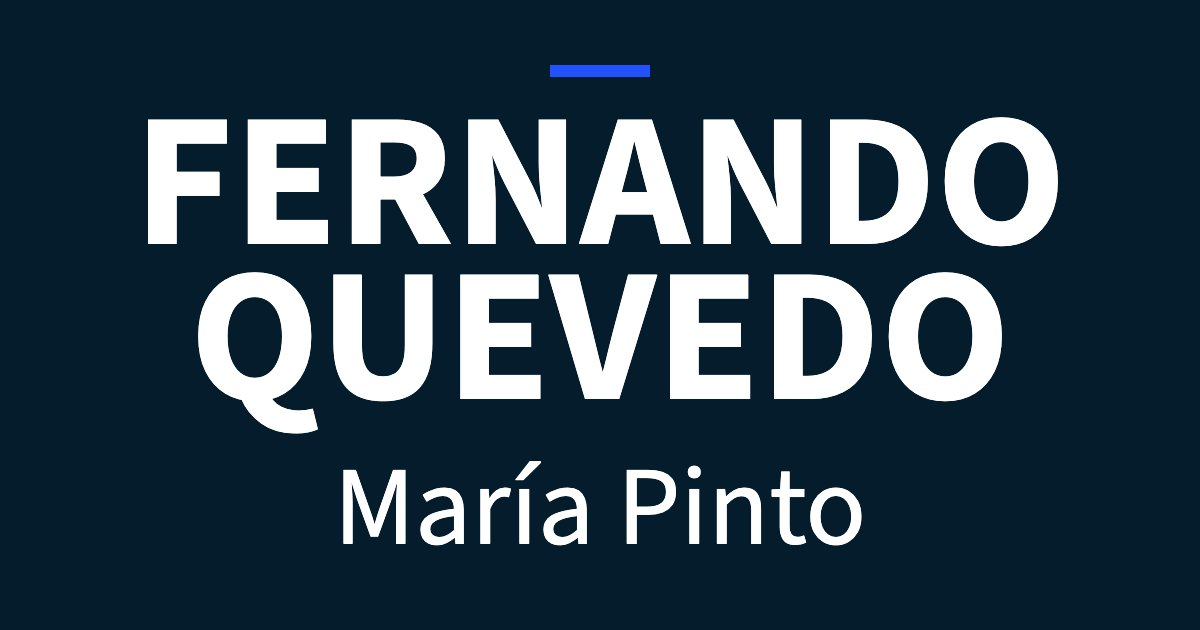
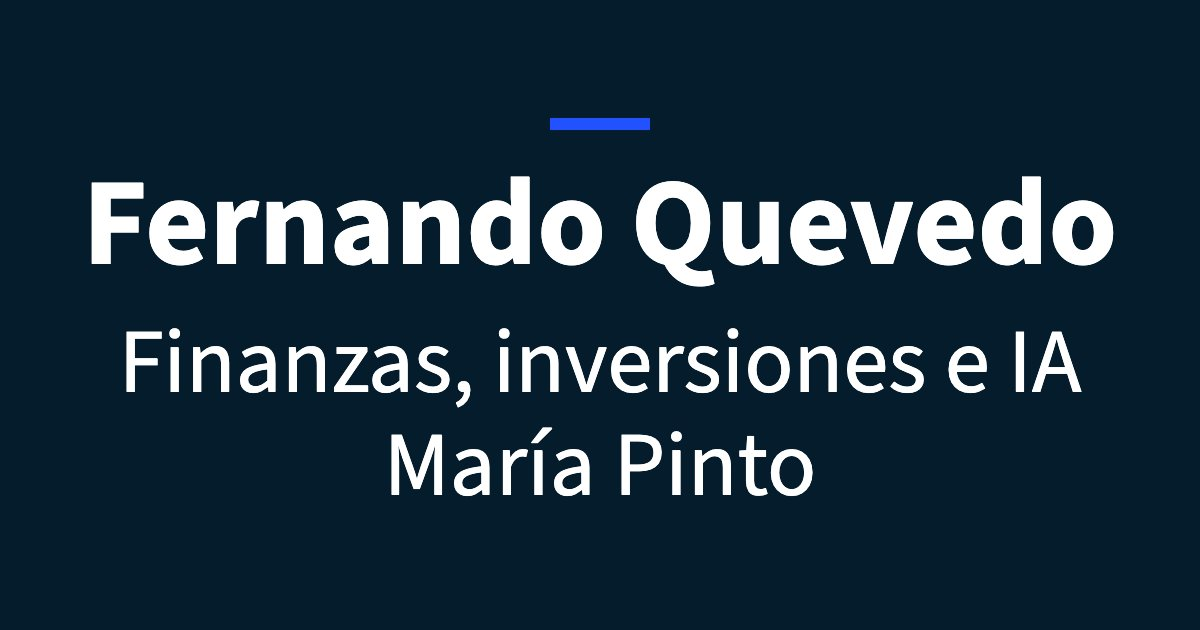
Tarjeta v4: og-image de 3 niveles y descripción con "packing"
og-mariapinto.jpg pasa a tres niveles —nombre, qué hago, dónde— en caja
mixta. Medidas sobre el JPEG entregado: L1 "Fernando Quevedo" cap 81 px
en una línea, L2 y L3 cap 60 px, márgenes laterales 92/87, 87/119 y
392/388 px sobre un mínimo de 80. 52,4 KB, JPEG 85, baseline.

L1 va a 81 px y no a los 92-100 que pedía la spec porque a 92 el nombre
mediría 1178 px de ancho contra 1040 disponibles. Se reportaron las
variantes medidas y Fernando eligió conservar bold, línea única y
márgenes, aceptando un ratio de jerarquía de 1,350: el peso construye
la jerarquía tanto como el tamaño, y la variante que subía el ratio
dejaba nombre y lema en el mismo peso, con el nombre menos dominante.

meta description y og:description (idénticas, 94 caracteres) cambian
"IA" por "packing": la IA ya viaja en la imagen y en el título, y
packing le habla al agro. La CTA arranca en el carácter 64.

CLAUDE.md: se escribe la SPEC CANÓNICA TARJETA v4 y se eliminan las
specs anteriores de la og-image. Incorpora cómo medir la altura de
mayúscula y el procedimiento de calentar el CDN antes de probar la
vista previa en WhatsApp.

Sin tocar og:title, og:url, la ruta de og:image ni el resto de la página.

Changed region(s): [[0.0617, 0.181, 0.925, 0.6937], [0.2775, 0.6635, 0.74, 0.8746], [0.4317, 0.0905, 0.555, 0.1508]]

diff --git a/_fuente-img/og-mariapinto.html b/_fuente-img/og-mariapinto.html
@@ -6,30 +6,28 @@
 <!--
   FUENTE DE IMAGEN de la vista previa que muestra WhatsApp al compartir
   el link de /mariapinto/.
+  La spec que manda sobre este archivo vive en CLAUDE.md, bajo el título
+  "SPEC CANÓNICA TARJETA v4". Si cambia, se reemplaza entera, no se parcha.
 
-  POR QUÉ SOLO DOS NIVELES DE TEXTO
-  La versión anterior tenía cinco (nombre, lema, audiencia, credenciales
-  y un botón pintado con el número de WhatsApp). En pruebas reales la
-  preview de WhatsApp mide unos 6 cm de ancho en un celular: a ese
-  tamaño solo sobrevivían los dos primeros niveles. Los otros tres se
-  volvían manchas grises.
+  TRES NIVELES DE TEXTO
+  L1 nombre · L2 qué hago · L3 dónde. La imagen dice quién, qué y dónde;
+  el og:title y la og:description dicen el resto en texto del sistema,
+  que WhatsApp siempre dibuja nítido y escalable.
 
-  El trabajo que hacían esos tres niveles no se perdió: lo hacen ahora
-  el og:title y la og:description, que WhatsApp dibuja en texto del
-  sistema —siempre nítido, escalable y accesible— justo debajo de esta
-  imagen. La imagen se queda con lo que solo ella puede hacer: gritar
-  el nombre y el lugar.
+  GEOMETRÍA — medida, no estimada
+  Lienzo 1200×630. Márgenes mínimos: 80 px laterales, 63 px verticales,
+  o sea 1040×504 px útiles. Source Sans 3 tiene altura de mayúscula
+  0,6518 × font-size en bold y 0,6563 en regular.
 
-  GEOMETRÍA (medida, no estimada)
-  Lienzo 1200×630 con 10% de margen de seguridad = 960×504 px útiles.
-  Source Sans 3 tiene una altura de mayúscula de 0,652 × font-size.
-    - "FERNANDO QUEVEDO" en UNA línea solo llegaría a 66 px de altura
-      de mayúscula: por eso va partido en dos. A dos líneas alcanza
-      124 px.
-    - La línea 2 debe caber en 960 px de ancho a 70-80 px de altura de
-      mayúscula. El lema completo ("Finanzas, inversiones e IA · María
-      Pinto") solo llegaría a 37 px, así que no cabe: se cortó a
-      "María Pinto", que es el gancho del segmento y llega a 74 px.
+  POR QUÉ L1 MIDE 81 px DE ALTURA DE MAYÚSCULA Y NO 92-100
+  "Fernando Quevedo" en caja mixta bold ocupa 8,346 em. A 92 px de
+  altura de mayúscula (font-size 141,2 px) mediría 1178 px de ancho:
+  138 px más que los 1040 disponibles. El máximo que cabe respetando
+  los márgenes es 81 px. Enmienda aprobada por Fernando: se conserva
+  el bold, la línea única y los márgenes, y se acepta que el ratio
+  L1/L2 quede en 1,350. Razón: la jerarquía la construye el peso tanto
+  como el tamaño, y con L1 y L2 en el mismo peso —única forma de subir
+  el ratio— el nombre se siente MENOS dominante, no más.
 
   Cómo se regenera (desde la raíz del repo):
     "/Applications/Google Chrome.app/Contents/MacOS/Google Chrome" \
@@ -37,11 +35,16 @@
       --allow-file-access-from-files --force-device-scale-factor=1 \
       --window-size=1200,630 --virtual-time-budget=8000 \
       --screenshot=/tmp/og.png "_fuente-img/og-mariapinto.html"
-  y luego a JPEG calidad 85 (baseline, nunca progresivo: WhatsApp no
+  y luego a JPEG calidad 85, baseline (nunca progresivo: WhatsApp no
   dibuja los JPEG progresivos):
     python3 -c "from PIL import Image; \
       Image.open('/tmp/og.png').convert('RGB').save(\
-      'assets/img/og-mariapinto.jpg', 'JPEG', quality=85, optimize=True)"
+      'assets/img/og-mariapinto.jpg','JPEG',quality=85,optimize=True,\
+      progressive=False)"
+  Tras publicar: pide la imagen dos veces desde el navegador para
+  calentar el CDN ANTES de probar la vista previa. Si WhatsApp raspa
+  el objeto frío y la descarga no alcanza a completarse, guarda el
+  fracaso para esa URL durante días.
 -->
 <style>
   @font-face {
@@ -57,36 +60,40 @@
     width: 1200px;
     height: 630px;
     box-sizing: border-box;
-    background: #051C2C;             /* --c-deep */
+    background: #051C2C;              /* --c-deep */
     font-family: "Source Sans 3", system-ui, sans-serif;
     display: flex;
     flex-direction: column;
     align-items: center;
     justify-content: center;
     text-align: center;
-    padding: 63px 120px;             /* margen de seguridad: 10% */
+    padding: 63px 80px;               /* márgenes mínimos de la spec */
   }
 
-  .barra { width: 100px; height: 12px; background: #2251FF; /* --c-accent */
-           margin-bottom: 30px; }
+  .barra { width: 100px; height: 12px; background: #2251FF;  /* --c-accent */
+           margin-bottom: 34px; }
 
-  /* 190px × 0,652 = 124 px de altura de mayúscula (rango pedido: 120-130).
-     line-height en px, no en múltiplos: las mayúsculas no tienen
-     descendentes, así que se pueden apretar sin que se toquen. */
-  .nombre { font-size: 190px; font-weight: 700; line-height: 155px;
-            color: #FFFFFF; margin-bottom: 36px; }
+  /* L1 · 124px × 0,6518 = 81 px de altura de mayúscula.
+     Caja mixta, bold, una sola línea. line-height en px porque el
+     interlineado por defecto abriría el bloque sin necesidad. */
+  .nombre { font-size: 124px; font-weight: 700; line-height: 124px;
+            color: #FFFFFF; margin-bottom: 30px; white-space: nowrap; }
 
-  /* 112px × 0,652 = 73 px de altura de mayúscula (rango pedido: 70-80). */
-  .lema   { font-size: 112px; font-weight: 400; line-height: 112px;
-            color: #FFFFFF; }
+  /* L2 y L3 · 91px × 0,6563 = 60 px de altura de mayúscula.
+     Peso regular: es lo que deja al nombre mandar. L2 entra al ras
+     (954 de 1040 px); no le queda margen para crecer. */
+  .linea  { font-size: 91px; font-weight: 400; line-height: 91px;
+            color: #FFFFFF; white-space: nowrap; }
+  .linea + .linea { margin-top: 12px; }
 </style>
 </head>
 
 <body>
 <div class="og">
   <div class="barra"></div>
-  <div class="nombre">FERNANDO<br>QUEVEDO</div>
-  <div class="lema">María Pinto</div>
+  <div class="nombre">Fernando Quevedo</div>
+  <div class="linea">Finanzas, inversiones e IA</div>
+  <div class="linea">María Pinto</div>
 </div>
 </body>
 </html>

diff --git a/mariapinto/index.html b/mariapinto/index.html
@@ -11,7 +11,7 @@
 <meta name="robots" content="noindex">
 
 <title>Fernando Quevedo — Finanzas, inversiones e IA · María Pinto</title>
-<meta name="description" content="Antes de invertir —riego, maquinaria o IA— ponle números. Primera conversación sin costo.">
+<meta name="description" content="Antes de invertir —riego, maquinaria o packing— ponle números. Primera conversación sin costo.">
 
 <!-- preload de la tipografía: el navegador la empieza a bajar de
      inmediato en vez de esperar a leer el CSS. Gana ~200 ms en 4G. -->
@@ -24,7 +24,7 @@
      no resuelve rutas relativas. -->
 <meta property="og:type" content="website">
 <meta property="og:title" content="Fernando Quevedo — Finanzas, inversiones e IA · María Pinto">
-<meta property="og:description" content="Antes de invertir —riego, maquinaria o IA— ponle números. Primera conversación sin costo.">
+<meta property="og:description" content="Antes de invertir —riego, maquinaria o packing— ponle números. Primera conversación sin costo.">
 <meta property="og:url" content="https://fernando4to.github.io/mariapinto/">
 <meta property="og:image" content="https://fernando4to.github.io/assets/img/og-mariapinto.jpg">
 <meta property="og:image:width" content="1200">

diff --git a/CLAUDE.md b/CLAUDE.md
@@ -160,9 +160,10 @@ placeholders de imagen, 404. Commit.
 
 FASE 2 — Assets (te los entregaré DE A UNO en assets-entrada/;
 al integrar cada uno, avísame y pídeme el siguiente):
-  a) Tarjeta-gancho (imagen 1080×1350): genera de ella un recorte
-     og-image de 1200×630, JPEG ≤ 300 KB (WhatsApp rechaza og:image
-     pesadas), y conéctala al head de /mariapinto/.
+  a) Tarjeta-gancho (imagen 1080×1350): conéctala al head de
+     /mariapinto/. DEROGADO en cuanto a la og-image: su diseño, peso y
+     medidas los fija la SPEC CANÓNICA TARJETA v4, más arriba. Esta
+     línea se conserva solo como registro del plan original.
   b) CV one-pager PDF (80×160 mm): a /assets/docs/ con el nombre
      "Fernando Quevedo - Asesorias.pdf", conectado al botón de
      descarga. Verifica que pese < 1 MB.
@@ -201,6 +202,90 @@ Crear un segmento nuevo debe tomar minutos.
 5. Ninguna página enlaza a otro segmento.
 6. Crear un segmento nuevo = copiar carpeta + editar textos, sin
    tocar CSS.
+
+## SPEC CANÓNICA TARJETA v4
+
+Esta especificación manda sobre `/assets/img/og-mariapinto.jpg` y sobre
+las metas de descripción de `/mariapinto/`. REEMPLAZA ÍNTEGRAMENTE toda
+instrucción anterior sobre la og-image (incluida la v3 de 2 niveles y el
+string de descripción de 89 caracteres, ambos ya eliminados de este
+documento). Todo cambio futuro reemplaza esta spec completa — nunca la
+parcha.
+
+### LA IMAGEN (/assets/img/og-mariapinto.jpg)
+Lienzo 1200×630 px, JPEG calidad 80-85, peso ≤ 300 KB. Fondo y acento:
+tokens de `/assets/css/base.css` (hoy `#051C2C` y `#2251FF` — si los
+tokens cambian, mandan los tokens). Texto blanco, centrado, barra de
+acento arriba. Sin versalitas, sin letter-spacing, sin degradados, sin
+sombras. JPEG baseline, nunca progresivo: WhatsApp no dibuja los
+progresivos.
+
+TRES niveles de texto, en este orden:
+  L1: Fernando Quevedo — CAJA MIXTA (no todo mayúsculas), bold,
+      UNA sola línea, sin quiebre. Altura de mayúscula 81 px.
+  L2: Finanzas, inversiones e IA — altura de mayúscula 60-62 px.
+  L3: María Pinto — altura de mayúscula 60-62 px.
+Márgenes: laterales ≥ 80 px en las tres líneas; verticales ≥ 63 px;
+el aire sobrante se distribuye alrededor del bloque.
+
+POR QUÉ L1 MIDE 81 px Y NO 92-100. La v4 se especificó pidiendo 92-100
+px para L1, y es geométricamente imposible: "Fernando Quevedo" en caja
+mixta bold ocupa 8,346 em, así que a 92 px de altura de mayúscula
+(font-size 141,2) mediría 1178 px — 138 px más que los 1040 disponibles
+con márgenes de 80. El máximo real es 81 px en bold (85 px en regular).
+Con L1 a 81 y L2 en su piso de 60, el ratio de jerarquía queda en 1,350
+y no en el 1,4 que pedía la spec; para llegar a 1,4 habría que bajar L2
+a 58, bajo su propio piso. Enmienda decidida por Fernando: se conservan
+el bold, la línea única, los márgenes y el piso de 60, y se acepta el
+ratio 1,350. Razón: la jerarquía la construye el peso tanto como el
+tamaño, y la única variante que subía el ratio (L1 y L2 en el mismo
+peso regular) hacía ver el nombre MENOS dominante, no más.
+
+### REGLA DE RESOLUCIÓN DE CONFLICTOS (permanente)
+1. Si un texto no cabe: primero se corta contenido.
+2. Si el contenido es atómico (un nombre propio): se reduce tamaño,
+   nunca bajo 60 px de altura de mayúscula.
+3. Jamás se compensa rompiendo márgenes mínimos ni la jerarquía.
+4. Si (1)-(3) no pueden cumplirse a la vez: DETENTE y reporta variantes
+   medidas al píxel. No inventes contenido.
+Aplicación conocida: L2 entra al ras — mide 954 px de los 1040
+disponibles y su altura de mayúscula máxima es 64,5 px. No hay espacio
+para alargarla. Nunca se comprime el tracking ni se achica por debajo
+de los pisos.
+
+### CÓMO SE MIDE LA ALTURA DE MAYÚSCULA
+No se estima: se mide en píxeles sobre el JPEG entregado, usando un
+glifo de referencia plano arriba y abajo (`F`, `E`, `M`). No sirven la
+`Q` (su cola desciende bajo la línea base) ni la `i` (su punto sube
+sobre la altura de mayúscula): ambas inflan la medición.
+Para Source Sans 3, altura de mayúscula = 0,6518 × font-size en bold y
+0,6563 en regular.
+
+### DESCRIPCIÓN
+`meta description` y `og:description` son idénticas byte a byte, y hoy
+valen (94 caracteres):
+  "Antes de invertir —riego, maquinaria o packing— ponle números.
+  Primera conversación sin costo."
+Razón: no solapa "IA" con la L2 de la imagen (la IA ya viaja en imagen
+y título) y recupera "packing" para el agro. La CTA arranca en el
+carácter 64, en zona segura: WhatsApp trunca cerca del 100.
+
+### og:image:alt
+  "Fernando Quevedo — Finanzas, inversiones e IA · María Pinto"
+
+### PUBLICACIÓN — CALENTAR EL CDN ANTES DE PROBAR
+WhatsApp cachea la vista previa POR URL PEGADA (no por `og:url`: está
+comprobado en terreno, `?v=2` y `?v=3` se comportaron distinto). Y si
+raspa la imagen cuando el objeto todavía está frío en el CDN de GitHub
+(`x-cache: MISS`) y la descarga no alcanza a completarse, guarda el
+fracaso para esa URL durante días, aunque el archivo esté perfecto.
+Orden correcto tras cada cambio de og-image:
+  1. Desplegar y esperar a que la URL sirva el archivo nuevo.
+  2. Calentar: pedir la imagen dos o tres veces hasta ver `x-cache: HIT`.
+  3. Recién entonces probar con un `?v=N` que nunca se haya usado.
+Una URL que ya falló queda quemada. Para recuperarla: Sharing Debugger
+de Meta (`developers.facebook.com/tools/debug/`, botón "Scrape Again"),
+o esperar a que expire el caché.
 
 ---
 
@@ -252,15 +337,15 @@ Crear un segmento nuevo debe tomar minutos.
   Productos, ambos JPEG calidad 90:
     - `assets/img/tarjeta-mariapinto-1080x1350.jpg` (168,4 KB) — la
       imagen que Fernando comparte por WhatsApp/redes.
-    - `assets/img/og-mariapinto.jpg` (95,9 KB, límite 300 KB) — vista
-      previa del link, conectada al `og:image` de `/mariapinto/` junto
-      con `og:image:width/height/alt`.
-  El og:image NO es un recorte literal de la tarjeta: la tarjeta es
+    - `assets/img/og-mariapinto.jpg` — vista previa del link, conectada
+      al `og:image` de `/mariapinto/` junto con
+      `og:image:width/height/alt`. Su diseño ya NO es el de esta fase:
+      lo rige la SPEC CANÓNICA TARJETA v4, más arriba.
+  El og:image nunca fue un recorte literal de la tarjeta: la tarjeta es
   vertical (1080×1350) y el og:image es horizontal (1200×630), así que
-  una franja del centro habría dejado fuera el nombre o el número.
-  Son los mismos textos reordenados, en
-  `_fuente-img/og-mariapinto.html`. Ambos comandos de regeneración
-  están comentados dentro de cada archivo fuente.
+  una franja del centro habría dejado fuera el nombre o el número. Cada
+  uno tiene su propio archivo fuente en `_fuente-img/`, con el comando
+  de regeneración comentado adentro.
   Color nuevo que aporta la tarjeta y que solo se usa sobre fondo
   oscuro: `#9AA6B2` (gris azulado, 7,0:1 sobre `#051C2C`).
   Se quitó el placeholder de imagen del cuerpo de `/mariapinto/`: el
@@ -343,31 +428,16 @@ Crear un segmento nuevo debe tomar minutos.
   móvil sobre el sitio en vivo: **Performance 99, Accesibilidad 100**
   (la meta era ≥ 90 en ambos). Medido con la tipografía
   auto-hospedada de 28 KB y sin JavaScript.
-- **TARJETA GANCHO (vista previa de WhatsApp) — REDISEÑADA.** Prueba real:
-  la preview mide ~6 cm en el celular y de los 5 niveles de texto que
-  tenía la og-image solo sobrevivían 2. Se reasignó el trabajo por capa:
-  la IMAGEN grita nombre y lugar; el og:title y la og:description dicen
-  el resto en texto del sistema, que WhatsApp siempre dibuja nítido.
-    - `og-mariapinto.jpg` ahora tiene dos niveles: `FERNANDO / QUEVEDO`
-      (altura de mayúscula 124 px) y `María Pinto` (74 px). Fuera: la
-      línea de audiencia, la de credenciales y el botón pintado con el
-      número. 49,8 KB, JPEG calidad 85, baseline.
-    - Geometría medida, no estimada: Source Sans 3 tiene altura de
-      mayúscula = 0,652 × font-size, y con 10% de margen quedan
-      960×504 px útiles. De ahí salen dos hechos que mandan sobre el
-      diseño: "FERNANDO QUEVEDO" en UNA línea tope a 66 px (por eso va
-      partido en dos, donde llega a 124), y el lema completo
-      "Finanzas, inversiones e IA · María Pinto" tope a 37 px — la
-      mitad del piso de legibilidad. Por eso se cortó a "María Pinto".
-      Decisión de Fernando entre tres variantes medidas; las otras dos
-      eran "IA · María Pinto" (74 px) y "Finanzas · María Pinto" (69).
-    - La descripción (meta description y og:description, idénticas)
-      pasó a: "Antes de invertir —riego, maquinaria o IA— ponle números.
-      Primera conversación sin costo." (89 caracteres). Razón: WhatsApp
-      trunca cerca del carácter 100, y la versión anterior gastaba ese
-      espacio repitiendo la categoría en vez de poner la oferta.
-    - REGLA para futuras og-image: nunca menos de 60 px de altura de
-      mayúscula. Si el texto no cabe, se corta contenido; no se achica
-      la letra. Y el JPEG va baseline, nunca progresivo: WhatsApp no
-      dibuja los progresivos.
+- **TARJETA GANCHO — v4 EN PRODUCCIÓN.** La og-image y las metas de
+  descripción se rigen por la **SPEC CANÓNICA TARJETA v4**, más arriba
+  en este documento. Ahí están los tres niveles de texto, la regla de
+  resolución de conflictos, cómo se mide la altura de mayúscula y el
+  procedimiento de publicación. Las specs anteriores (5 niveles y
+  2 niveles) fueron eliminadas: no se parchan, se reemplazan.
+  Origen del rediseño: en prueba real la vista previa mide ~6 cm en el
+  celular, y de los 5 niveles de texto que tenía la primera versión
+  solo sobrevivían 2. Por eso el trabajo se reparte por capa — la
+  imagen dice quién, qué y dónde; el `og:title` y la `og:description`
+  dicen el resto en texto del sistema, que WhatsApp siempre dibuja
+  nítido y escalable.
 - **Fases 4 y 5 — pendientes.**
